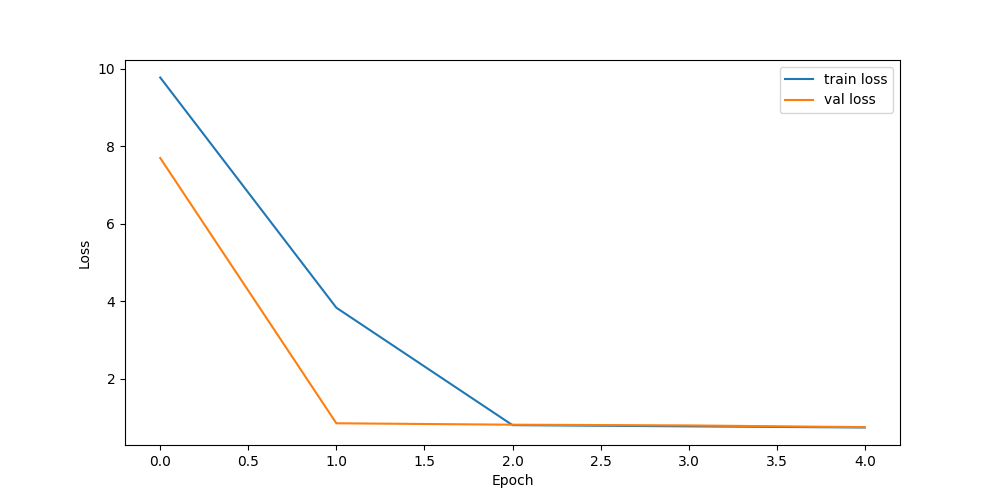
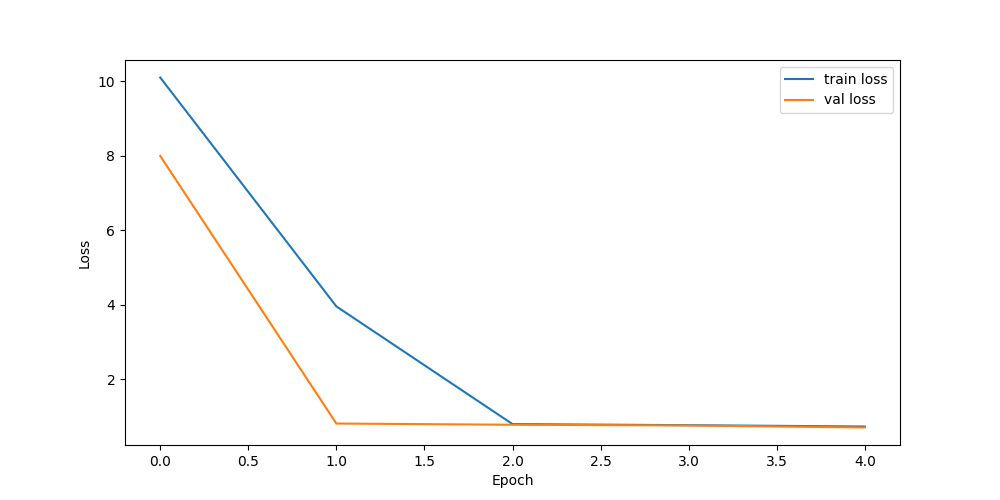
Home work 3

diff --git a/3 Deep Learning/results/REPORT.md b/3 Deep Learning/results/REPORT.md
@@ -1,10 +1,10 @@
-Epoch [1/5], Train Loss: 9.6556, Train Perplexity: 15608.3223
-Epoch [1/5], Val Loss: 7.5479, Val Perplexity: 1896.7874
-Epoch [2/5], Train Loss: 3.7372, Train Perplexity: 41.9811
-Epoch [2/5], Val Loss: 0.7858, Val Perplexity: 2.1942
-Epoch [3/5], Train Loss: 0.7937, Train Perplexity: 2.2115
-Epoch [3/5], Val Loss: 0.7590, Val Perplexity: 2.1362
-Epoch [4/5], Train Loss: 0.7649, Train Perplexity: 2.1488
-Epoch [4/5], Val Loss: 0.7353, Val Perplexity: 2.0860
-Epoch [5/5], Train Loss: 0.7318, Train Perplexity: 2.0788
-Epoch [5/5], Val Loss: 0.6891, Val Perplexity: 1.9919
+Epoch [1/5], Train Loss: 10.0943, Train Perplexity: 24203.5938
+Epoch [1/5], Val Loss: 7.9918, Val Perplexity: 2956.5388
+Epoch [2/5], Train Loss: 3.9577, Train Perplexity: 52.3392
+Epoch [2/5], Val Loss: 0.8171, Val Perplexity: 2.2639
+Epoch [3/5], Train Loss: 0.8025, Train Perplexity: 2.2312
+Epoch [3/5], Val Loss: 0.7846, Val Perplexity: 2.1915
+Epoch [4/5], Train Loss: 0.7726, Train Perplexity: 2.1654
+Epoch [4/5], Val Loss: 0.7642, Val Perplexity: 2.1473
+Epoch [5/5], Train Loss: 0.7375, Train Perplexity: 2.0908
+Epoch [5/5], Val Loss: 0.7107, Val Perplexity: 2.0354
